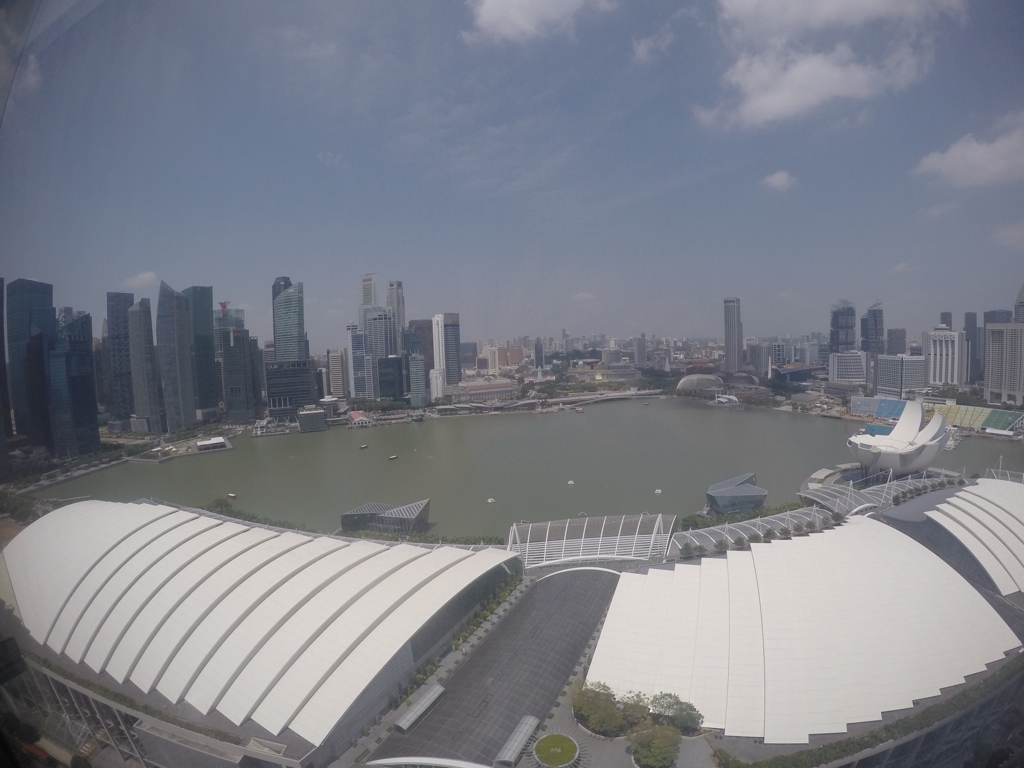
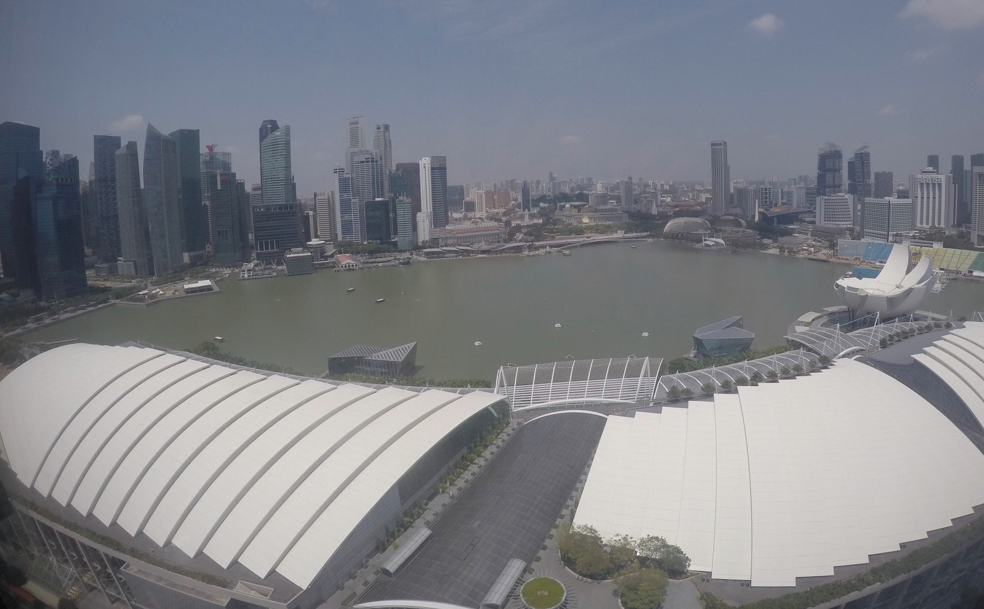
ran grunt task to compress images

diff --git a/index.html b/index.html
@@ -58,7 +58,7 @@
 
         <div class="row">
             <div class="col-md-12">
-                <img class="img-responsive main-image" src="images/singapore_small.jpg" alt="Singapore">
+                <img class="img-responsive main-image" src="images/singapore.jpg" alt="Singapore">
             </div>
         </div>
 
@@ -73,14 +73,14 @@
 
         <div class="row text-center">
             <div class="col-md-4">
-                <img class="img-modal img-responsive" src="images/thai.jpg" alt="Thailand" data-toggle="modal" data-target="#project1">
+                <img class="img-modal img-responsive" src="images/thai-large.jpg" alt="Thailand" data-toggle="modal" data-target="#project1">
                 <h3>THAILAND</h3>
                 <p><a class="button" href="http://github.com/">Link to project</a>
                 </p>
             </div>
 
             <div class="col-md-4">
-                <img class="img-modal img-responsive" src="srcimages/dubai-small_small.jpg" srcset="srcimages/dubai-small_small.jpg 1000w, srcimages/dubai-large_large.jpg 2000w" alt="Dubai" data-toggle="modal" data-target="#project2">
+                <img class="img-modal img-responsive" src="images/dubai-large.jpg" srcset="images/dubai-small.jpg 1000w, images/dubai-large.jpg 2000w" alt="Dubai" data-toggle="modal" data-target="#project2">
                 <h3>DUBAI</h3>
                 <p><a class="button" href="http://github.com/">Link to project</a>
                 </p>

diff --git a/gruntfile.js b/gruntfile.js
@@ -8,20 +8,20 @@ module.exports = function(grunt) {
           sizes: [{
             name: 'small',
             width: '30%',
-            suffix: '_small',
+            suffix: '',
             quality: 20
           },{
             name: 'large',
             width: '50%',
-            suffix: '_large',
+            suffix: '',
             quality: 40
           }]
         },
         files: [{
           expand: true,
           src: ['*.{gif,jpg,png}'],
-          cwd: 'bootstrap/images/',
-          dest: 'bootstrap/srcimages/'
+          cwd: 'images/',
+          dest: 'images/'
         }]
       }
     },
